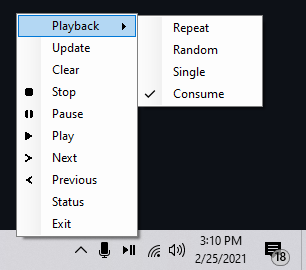
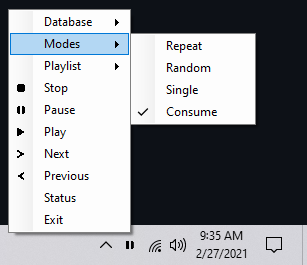
Playlist window, single file publish

diff --git a/src/AppContext.cs b/src/AppContext.cs
@@ -53,17 +53,23 @@ namespace WinMpcTrayIcon
             var menuItems = new List<MenuItem>()
             {
                 // new MenuItem("Outputs", GetOutputs()),
-                new MenuItem("Playmodes", new List<MenuItem>()
+                new MenuItem("Database", new List<MenuItem>()
+                {
+                    new MenuItem("Search", new EventHandler(Search)),
+                    new MenuItem("Update", (sender, e) => MpcCommand(Command.update)),
+                }),
+                new MenuItem("Modes", new List<MenuItem>()
                 {
                     new MenuItem("Repeat", (sender, e) => MpcCommand(Command.repeat), playModeStatus.Repeat),
                     new MenuItem("Random", (sender, e) => MpcCommand(Command.random), playModeStatus.Random),
                     new MenuItem("Single", (sender, e) => MpcCommand(Command.single), playModeStatus.Single),
                     new MenuItem("Consume", (sender, e) => MpcCommand(Command.consume), playModeStatus.Consume),
                 }),
-                new MenuItem("Search", new EventHandler(Search)),
-                // new MenuItem("Playlist", new EventHandler(Playlist)),
-                new MenuItem("Update", (sender, e) => MpcCommand(Command.update)),
-                new MenuItem("Clear", (sender, e) => MpcCommand(Command.clear)),
+                new MenuItem("Playlist", new List<MenuItem>()
+                {
+                    new MenuItem("View", new EventHandler(Playlist)),
+                    new MenuItem("Clear", (sender, e) => MpcCommand(Command.clear)),
+                }),
                 new MenuItem("Stop", (sender, e) => MpcCommand(Command.stop), Command.stop),
                 new MenuItem("Pause", (sender, e) => MpcCommand(Command.pause), Command.pause),
                 new MenuItem("Play", (sender, e) => MpcCommand(Command.play), Command.play),

diff --git a/src/FormBase.cs b/src/FormBase.cs
@@ -10,39 +10,38 @@ namespace WinMpcTrayIcon
     {
         protected MpcClient _mpc;
 
-        protected TextBox _textBox;
-
         protected ListBox _list;
 
         public FormBase()
         {
         }
 
-        protected void InitComponents(string title, List<MenuItem> menuItems, KeyEventHandler searchFunction)
+        protected void InitComponents(string title, List<MenuItem> menuItems)
         {
             _mpc = new MpcClient();
-
-            _textBox = new TextBox
-            {
-                Size = new Size(796, 25),
-                Location = new Point(2, 2)
-            };
-            _textBox.KeyUp += searchFunction;
+            Text = title;
+            ClientSize = new Size(800, 438);
+            Padding = new Padding(2, 2, 2, 2);
+            CenterToScreen();
 
             _list = new ListBox
             {
-                Size = new Size(796, 422),
                 Location = new Point(2, 27),
+                Margin = new Padding(2, 2, 2, 2),
                 MultiColumn = false,
                 SelectionMode = SelectionMode.MultiExtended,
-                ContextMenuStrip = new ContextMenu(menuItems).ToContextMenuStrip()
+                ContextMenuStrip = new ContextMenu(menuItems).ToContextMenuStrip(),
+                Dock = DockStyle.Fill,
+                Anchor = AnchorStyles.Top | AnchorStyles.Bottom | AnchorStyles.Left | AnchorStyles.Right,
             };
 
-            Text = title;
-            ClientSize = new Size(800, 438);
-            CenterToScreen();
-            Controls.Add(_textBox);
             Controls.Add(_list);
+            _list.Width = _list.Parent.Width - 20;
+            _list.Height = _list.Parent.Height - 20;
+        }
+
+        protected void InitComponents()
+        {
         }
     }
 }

diff --git a/src/PlaylistForm.cs b/src/PlaylistForm.cs
@@ -1,7 +1,6 @@
 using System;
 using System.Collections.Generic;
 using System.Drawing;
-using System.Windows.Forms;
 using WinMpcTrayIcon.Menu;
 using WinMpcTrayIcon.Mpc;
 
@@ -13,26 +12,27 @@ namespace WinMpcTrayIcon
         {
             InitComponents(
                 title: "mpc playlist",
-                menuItems: new List<MenuItem>(),
-                searchFunction: Search);
+                menuItems: new List<MenuItem>());
+
+            GetPlaylist();
+            _list.Location = new Point(2, 2);
+            _list.Height = _list.Parent.Height - 40;
+            _list.Enabled = false;
         }
 
-        private void Search(object sender, KeyEventArgs e)
+        private void GetPlaylist()
         {
-            if (e.KeyCode == Keys.Enter)
+            _mpc.Cmd(Command.playlist, out string info);
+            var results = info.Split("\r\n");
+            _list.Items.Clear();
+            _list.BeginUpdate();
+
+            foreach (var result in results)
             {
-                _mpc.Cmd(Command.playlist, out string info);
-                var results = info.Split("\r\n");
-                _list.Items.Clear();
-                _list.BeginUpdate();
-
-                foreach (var result in results)
-                {
-                    _list.Items.Add(result);
-                }
-
-                _list.EndUpdate();
+                _list.Items.Add(result);
             }
+
+            _list.EndUpdate();
         }
     }
 }

diff --git a/src/SearchForm.cs b/src/SearchForm.cs
@@ -1,5 +1,6 @@
 using System;
 using System.Collections.Generic;
+using System.Drawing;
 using System.Linq;
 using System.Windows.Forms;
 using WinMpcTrayIcon.Menu;
@@ -9,6 +10,8 @@ namespace WinMpcTrayIcon
 {
     public class SearchForm : FormBase
     {
+        private readonly TextBox _textBox;
+
         public SearchForm()
         {
             InitComponents(
@@ -19,8 +22,19 @@ namespace WinMpcTrayIcon
                     new MenuItem("Play next", new EventHandler(Insert)),
                     new MenuItem("Crop and play", (sender, e) => AddAnd(Command.crop)),
                     new MenuItem("Clear and play", (sender, e) => AddAnd(Command.clear))
-                },
-                searchFunction: (sender, e) => Search(sender, e, _textBox.Text));
+                });
+
+            _textBox = new TextBox
+            {
+                Location = new Point(2, 2),
+                Margin = new Padding(2, 2, 2, 2),
+                Anchor = AnchorStyles.Top | AnchorStyles.Right |  AnchorStyles.Left
+            };
+            _textBox.KeyUp += (sender, e) => Search(sender, e, _textBox.Text);
+
+            Controls.Add(_textBox);
+            _textBox.Width = _textBox.Parent.Width - 20;
+            _list.Height = _list.Parent.Height - 65;
         }
 
         private void Add(object sender, EventArgs e)

diff --git a/README.md b/README.md
@@ -12,6 +12,7 @@ Middle-click for a status balloon, double-click to toggle play/pause, and right-
 Supported mpc commands are:
 * `mpc status`
 * `mpc search`
+* `mpc playlist`
 * `mpc toggle`
 * `mpc play`
 * `mpc pause`
@@ -19,6 +20,7 @@ Supported mpc commands are:
 * `mpc next`
 * `mpc prev`
 * `mpc clear`
+* `mpc crop`
 * `mpc update`
 * `mpc repeat`
 * `mpc random`
@@ -28,6 +30,7 @@ Supported mpc commands are:
 ### Screenshots
 ![Context menu](https://github.com/clkmsc/WinMpcTrayIcon/blob/master/images/2.png?raw=true)
 ![Status tooltip](https://github.com/clkmsc/WinMpcTrayIcon/blob/master/images/1.png?raw=true)
+![Search](https://github.com/clkmsc/WinMpcTrayIcon/blob/master/images/3.png?raw=true)
 
 ## Setup
 
